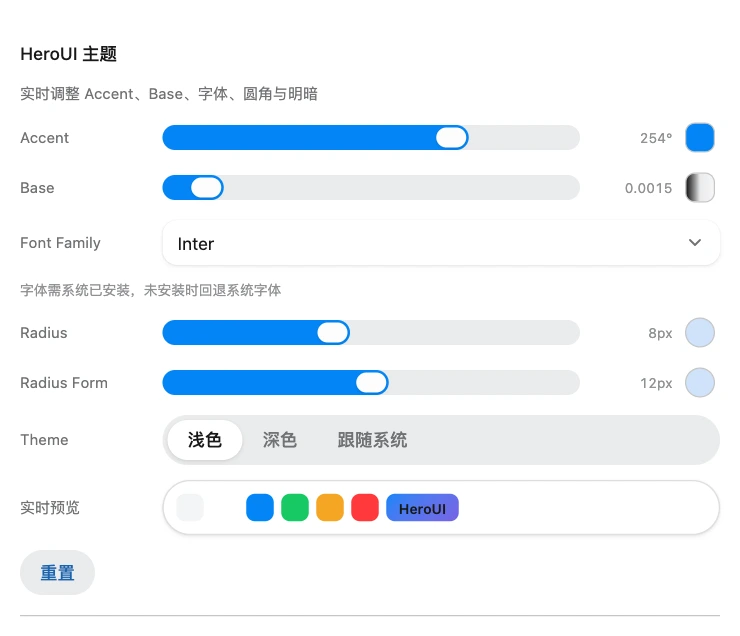
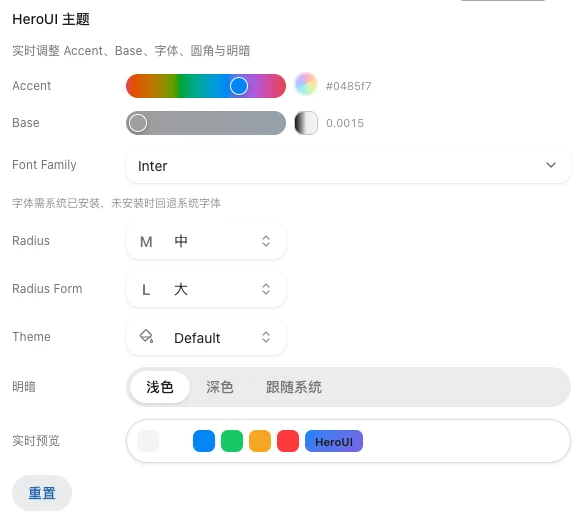
docs: refresh preview screenshots and add changelog
- Re-shoot builder previews from the 0.2.15 builder (color slider + disc
  panel, preset pickers, theme gallery) in light and dark modes.
- Re-shoot the light/dark surface previews with the HeroUI component
  layer (two-layer table, themed code block, tags).
- Refresh the builder control table for the new controls and document
  the vibrant boost.
- Add a Changelog section (also serves the market update dialog
  fallback) in both READMEs.

diff --git a/README.md b/README.md
@@ -17,7 +17,7 @@
 
 <p align="center">
   A <b>HeroUI v3 theme builder</b> for DeepSeek Harness Web and the embedded Desktop workspace.<br>
-  Six live controls regenerate the complete DSH token layer — no rebuild, no profile restart.
+  Live controls and brand presets regenerate the complete DSH token layer — no rebuild, no profile restart.
 </p>
 
 <p align="center">
@@ -37,7 +37,7 @@
 
 | | |
 | --- | --- |
-| **Six live controls** | Accent hue, Base chroma, Font Family, Radius, Radius Form, Light / Dark / System. |
+| **Seven live controls** | Accent (hue / chroma / lightness + vibrant), Base chroma, Font Family, Radius, Radius Form, Theme presets, Light / Dark / System. |
 | **167 tokens × 2 schemes** | Every alias, specific, Shiki, radius, shadow and timing token is regenerated from the config. |
 | **HeroUI builder formulas** | Accent `oklch(62.04% 0.195 hue)`, neutral chroma scaling, semantic hue rotation, radius scale. |
 | **Component geometry** | HeroUI Slider, Tabs, Select, Button, MenuSurface, Dialog and Tooltip geometry plus enter/exit motion. |
@@ -51,18 +51,19 @@
   <img src=".github/asset/builder-dark-blue.webp" alt="HeroUI theme builder in dark mode" width="49%">
 </p>
 
-<p align="center"><sub>Settings → General → HeroUI theme. The sliders, Tabs and Select are HeroUI-styled controls.</sub></p>
+<p align="center"><sub>Settings → General → HeroUI theme. The color slider, color disc, preset pickers and appearance tabs mirror the HeroUI themes page.</sub></p>
 
 | Control | Range | Default | What it changes |
 | --- | --- | --- | --- |
-| Accent | hue `0–360` | `253.83` | Accent `oklch(62.04% 0.195 hue)` (`#0485F7` at the default), focus ring, gradient start |
+| Accent | hue `0–360` · chroma `0–0.4` · lightness `0–1` | `#0485F7` | Rainbow slider with an expandable color-disc panel (swatches, hex, shuffle); drives accent tokens, focus ring and gradient start |
 | Base | chroma `0–0.02` | `0.0015` | Chroma of every neutral (background, surfaces, text, borders) |
 | Font Family | Inter / System UI / Geist / Manrope / IBM Plex Sans / JetBrains Mono | Inter | `--dsw-font-family` and the brand stack |
-| Radius | `0–1.25rem` | `0.5rem` (8px) | HeroUI radius scale and card radius (`3×`) |
-| Radius Form | `0–1.5rem` | `0.75rem` (12px) | Inputs and form fields |
-| Theme | Light / Dark / System | Dark | Base color scheme and `ctx.theme.setTheme()` |
+| Radius | XS / S / M / L / XL | M (8px) | HeroUI radius scale and card radius (`3×`) |
+| Radius Form | XS / S / M / L / XL | L (12px) | Inputs and form fields |
+| Theme | 11 presets | Default | One-click brand palettes: Sky, Lavender, Mint, Netflix, Uber, Spotify, Coinbase, Airbnb, Discord, Rabbit |
+| Light / Dark / System | — | Dark | Base color scheme and `ctx.theme.setTheme()` |
 
-The default accent is HeroUI blue `#0485F7` at hue `253.83`; the secondary gradient color is generated 31.67° around the wheel toward the HeroUI violet. Fonts must be installed locally — the stack falls back to System UI.
+The default accent is HeroUI blue `#0485F7` at `oklch(62.04% 0.195 253.83)`; the secondary gradient color is generated 31.67° around the wheel toward the HeroUI violet. **Vibrant** boosts accent chroma `×1.1` and neutral chroma `×1.8`. Fonts must be installed locally — the stack falls back to System UI.
 
 ## Generated palette
 
@@ -86,8 +87,9 @@ On top of the generated tokens, `src/hero.css` adds the recognizable HeroUI deta
 - **Gradient primary actions** — accent → `accent + 31.67°` (blue → violet at the default) with a soft glow.
 - **Aurora wash** — accent/violet gradients on the conversation canvas and sidebar.
 - **HeroUI surfaces** — composer and dialogs use the card radius; Dropdown/Select menu popovers use the 22px dropdown radius. Bubbles, selected sessions, menus and overlays never show the page through.
-- **HeroUI controls** — 36px secondary buttons with the 0.97 press scale, a sliding-indicator Tabs switch for the theme, and a Select with a rotating chevron, 150ms scale/fade popover, 100ms exit and a stroke-drawn check.
-- **HeroUI sliders** — 20px track with 12px end caps, a 28×20 accent thumb and a 24×16 inner face; an invisible native range input keeps pointer, keyboard and aria semantics.
+- **HeroUI controls** — 36px secondary buttons with the 0.97 press scale, a sliding-indicator Tabs switch for the appearance, and a Select with a rotating chevron, 150ms scale/fade popover, 100ms exit and a stroke-drawn check.
+- **HeroUI component layer** — two-layer primary tables, borderless cards, 36px ListBox menus, Select triggers, flat kbd badges, tags and the right-side sheet follow the HeroUI v3 component CSS geometry.
+- **HeroUI color sliders** — 160×24 rainbow/chroma tracks with a 16px thumb and white ring; an invisible native range input keeps pointer, keyboard and aria semantics.
 - **Motion** — button `scale(0.97)`, popover/dialog/tooltip enter scales, 2s skeleton shimmer, user-message entrance; all disabled under `prefers-reduced-motion`.
 
 ## Install
@@ -109,7 +111,23 @@ pnpm add dsh-hero-theme
 Add `"dsh-hero-theme"` to `dsh.profile.bundles` in that profile's
 `package.json` and restart the profile.
 
-Then open **Settings → General → HeroUI theme**. Drag Accent/Base/Radius/Radius Form, choose a font and theme; every change applies immediately and is saved into the active profile's Cordis patch. **Reset** returns to the builder defaults.
+Then open **Settings → General → HeroUI theme**. Pick an accent on the color slider or the disc panel, choose Radius presets, a theme preset and a font; every change applies immediately and is saved into the active profile's Cordis patch. **Reset** returns to the builder defaults.
+
+## Changelog
+
+### 0.2.15 — 2026-11-13
+
+- Theme builder rebuilt to match the [HeroUI themes page](https://heroui.com/en/themes): rainbow Accent slider with an expandable color-disc panel (chroma / lightness / vibrant, swatches, hex, shuffle), Radius & Radius Form preset pickers, and an 11-preset Theme gallery (Default, Sky, Lavender, Mint, Netflix, Uber, Spotify, Coinbase, Airbnb, Discord, Rabbit).
+- HeroUI component layer across DSH surfaces: two-layer primary tables, borderless cards, 36px ListBox menu items with end-aligned checks, Select triggers, flat kbd badges, tags, a field-shell search focus ring, and the right-side sheet.
+- Select triggers, switch, kbd, table, tag, card, disclosure and empty-state geometry aligned with HeroUI v3 component CSS.
+
+### 0.2.14 — 2026-11-13
+
+- Restored true capsule shapes for slider tracks, thumbs and tabs — `corner-shape: round` over the host's global superellipse default, with inline capsule radii for slider and tab controls.
+
+### 0.2.13 and earlier
+
+- HeroUI v3 token generator (167 tokens × light/dark), six-control builder, brand gradient layer, aurora wash and HeroUI motion. See the [commit history](https://github.com/Lhy723/dsh-hero-theme/commits).
 
 ## How it works
 

diff --git a/README.zh.md b/README.zh.md
@@ -17,7 +17,7 @@
 
 <p align="center">
   <b>DeepSeek Harness Web 与内嵌桌面工作区</b>的 <b>HeroUI v3 主题构建器</b>。<br>
-  六个实时控件重新生成完整的 DSH 令牌层 —— 不用重新构建，也不用重启 profile。
+  实时控件与品牌预设重新生成完整的 DSH 令牌层 —— 不用重新构建，也不用重启 profile。
 </p>
 
 <p align="center">
@@ -37,7 +37,7 @@
 
 | | |
 | --- | --- |
-| **六个实时控件** | Accent 色相、Base 彩度、Font Family、Radius、Radius Form、浅色 / 深色 / 跟随系统。 |
+| **七个实时控件** | Accent（色相 / 彩度 / 亮度 + Vibrant）、Base 彩度、Font Family、Radius、Radius Form、Theme 预设、浅色 / 深色 / 跟随系统。 |
 | **167 个令牌 × 2 套方案** | 所有 alias、specific、Shiki、圆角、阴影与时长令牌都由配置重新生成。 |
 | **HeroUI 构建器公式** | Accent `oklch(62.04% 0.195 hue)`、中性色彩度缩放、语义色相旋转、圆角比例。 |
 | **组件几何与动效** | HeroUI Slider、Tabs、Select、Button、MenuSurface、Dialog、Tooltip 的尺寸与进出场动画。 |
@@ -51,18 +51,19 @@
   <img src=".github/asset/builder-dark-blue.webp" alt="深色模式下的 HeroUI 主题构建器" width="49%">
 </p>
 
-<p align="center"><sub>设置 → 通用 → HeroUI 主题。滑杆、Tabs 与 Select 均为 HeroUI 风格控件。</sub></p>
+<p align="center"><sub>设置 → 通用 → HeroUI 主题。彩色滑杆、圆盘面板、预设选择器与明暗 Tabs 均复刻 HeroUI 主题页。</sub></p>
 
 | 控件 | 范围 | 默认值 | 作用 |
 | --- | --- | --- | --- |
-| Accent | 色相 `0–360` | `253.83` | Accent `oklch(62.04% 0.195 hue)`（默认即 `#0485F7`）、焦点环、渐变起点 |
+| Accent | 色相 `0–360` · 彩度 `0–0.4` · 亮度 `0–1` | `#0485F7` | 彩虹滑杆 + 可展开的圆盘面板（色板、HEX、随机）；决定 accent 令牌、焦点环与渐变起点 |
 | Base | 彩度 `0–0.02` | `0.0015` | 所有中性色的彩度（背景、表面、文字、边框） |
 | Font Family | Inter / System UI / Geist / Manrope / IBM Plex Sans / JetBrains Mono | Inter | `--dsw-font-family` 与品牌字体栈 |
-| Radius | `0–1.25rem` | `0.5rem`（8px） | HeroUI 圆角比例与卡片圆角（`3×`） |
-| Radius Form | `0–1.5rem` | `0.75rem`（12px） | 输入框与表单字段 |
-| Theme | 浅色 / 深色 / 跟随系统 | 深色 | 基础明暗方案与 `ctx.theme.setTheme()` |
+| Radius | XS / S / M / L / XL | M（8px） | HeroUI 圆角比例与卡片圆角（`3×`） |
+| Radius Form | XS / S / M / L / XL | L（12px） | 输入框与表单字段 |
+| Theme | 11 个预设 | Default | 一键品牌配色：Sky、Lavender、Mint、Netflix、Uber、Spotify、Coinbase、Airbnb、Discord、Rabbit |
+| 浅色 / 深色 / 跟随系统 | — | 深色 | 基础明暗方案与 `ctx.theme.setTheme()` |
 
-默认强调色是 HeroUI 蓝 `#0485F7`（hue `253.83`）；渐变第二色取色轮 +31.67°，指向 HeroUI 紫色。字体需系统已安装，否则回退 System UI。
+默认强调色是 HeroUI 蓝 `#0485F7`（`oklch(62.04% 0.195 253.83)`）；渐变第二色取色轮 +31.67°，指向 HeroUI 紫色。**Vibrant** 会把 accent 彩度放大 `×1.1`、中性色彩度放大 `×1.8`。字体需系统已安装，否则回退 System UI。
 
 ## 调色板生成规则
 
@@ -86,8 +87,9 @@
 - **渐变主操作**：accent → accent+31.67°（默认蓝 → 紫），带柔和光晕。
 - **极光底色**：对话画布与侧栏叠加 accent/紫色渐变。
 - **HeroUI 表面**：输入区与 Modal 使用卡片圆角；Dropdown/Select 菜单使用 22px 下拉圆角。气泡、选中会话、菜单、弹层都不会透出页面内容。
-- **HeroUI 控件**：36px 次要按钮与 0.97 按压缩放；Theme 使用带滑动指示器的 Tabs；Font Family 使用 Select（旋转箭头、150ms 缩放淡入、100ms 退出、描边勾选动画）。
-- **HeroUI 滑杆**：20px 轨道、两端 12px 透明端帽、28×20 accent 滑块与 24×16 内芯；底层覆盖一个不可见的原生 range，保留指针、键盘与 aria 语义。
+- **HeroUI 控件**：36px 次要按钮与 0.97 按压缩放；明暗使用带滑动指示器的 Tabs；Font Family 使用 Select（旋转箭头、150ms 缩放淡入、100ms 退出、描边勾选动画）。
+- **HeroUI 组件层**：双层主表格、无边框卡片、36px ListBox 菜单、Select 触发器、扁平 kbd、标签与右侧 Sheet 均对齐 HeroUI v3 组件 CSS 的几何。
+- **HeroUI 彩色滑杆**：160×24 彩虹 / 彩度轨道、16px 滑块与白色描边；底层覆盖一个不可见的原生 range，保留指针、键盘与 aria 语义。
 - **动效**：按钮 `scale(0.97)`、弹层/弹窗/Tooltip 进入缩放、2s skeleton 扫光、用户消息入场；全部尊重 `prefers-reduced-motion`。
 
 ## 安装
@@ -108,7 +110,23 @@ pnpm add dsh-hero-theme
 
 把 `"dsh-hero-theme"` 加入该 profile `package.json` 的 `dsh.profile.bundles`，重启 profile。
 
-打开 **设置 → 通用 → HeroUI 主题**。拖动 Accent/Base/Radius/Radius Form，选择字体与明暗；每次修改立即生效并写入当前 profile 的 Cordis patch。**重置** 回到构建器默认值。
+打开 **设置 → 通用 → HeroUI 主题**。在彩色滑杆或圆盘面板上取 Accent 色，选择 Radius 档位、主题预设与字体；每次修改立即生效并写入当前 profile 的 Cordis patch。**重置** 回到构建器默认值。
+
+## 更新日志
+
+### 0.2.15 — 2026-11-13
+
+- 主题构建器重构，对齐 [HeroUI 主题页](https://heroui.com/en/themes)：彩虹 Accent 滑杆 + 可展开圆盘面板（彩度 / 亮度 / Vibrant、色板、HEX、随机）、Radius 与 Radius Form 档位选择器、11 个主题预设（Default、Sky、Lavender、Mint、Netflix、Uber、Spotify、Coinbase、Airbnb、Discord、Rabbit）。
+- DSH 各表面的 HeroUI 组件层：双层主表格、无边框卡片、36px ListBox 菜单项与右对齐勾选、Select 触发器、扁平 kbd、标签、搜索框外壳聚焦环、右侧 Sheet。
+- Select 触发器、开关、kbd、表格、标签、卡片、折叠与空状态的几何对齐 HeroUI v3 组件 CSS。
+
+### 0.2.14 — 2026-11-13
+
+- 修复滑轨、滑块与 Tabs 的真胶囊形状 —— 在宿主全局超椭圆圆角之上恢复 `corner-shape: round`，并对滑杆与 Tabs 强制内联胶囊半径。
+
+### 0.2.13 及更早
+
+- HeroUI v3 令牌生成器（167 个令牌 × 明暗两套）、六控件构建器、品牌渐变层、极光底色与 HeroUI 动效。详见[提交历史](https://github.com/Lhy723/dsh-hero-theme/commits)。
 
 ## 实现方式
 
